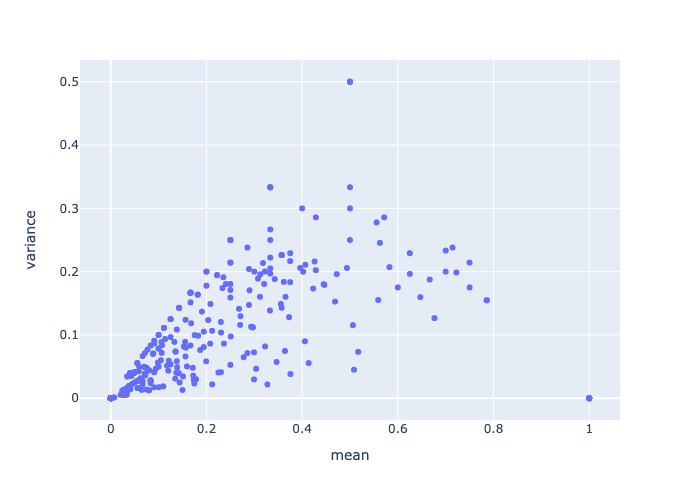
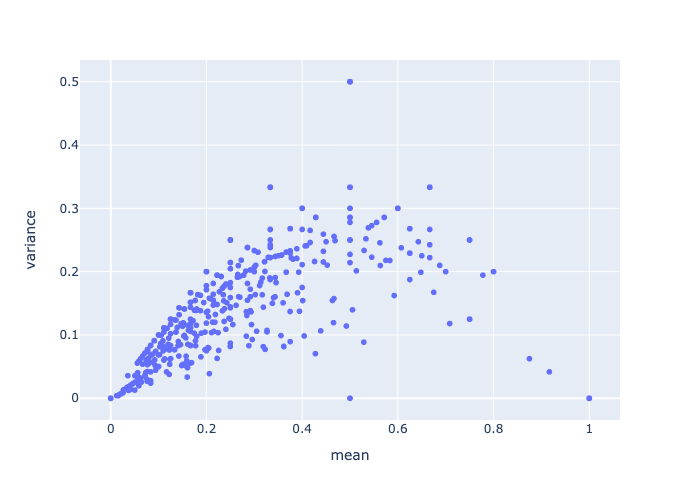
tried to do bootstrap, decided to do it in R instead, changed several plots

diff --git a/script.py b/script.py
@@ -1,0 +1,77 @@
+import pandas as pd
+import numpy as np
+import plotly.graph_objects as go
+import plotly.express as px
+import statsmodels.api as sm
+from scipy.stats import bootstrap
+
+ist_full_df = pd.read_csv("IST-data.CSV")
+
+ist_df = ist_full_df[["SEX", "AGE", "RCONSC", "RSBP", "FDEAD", "RXASP", "RDATE", "COUNTRY"]]
+ist_df = ist_df.rename(columns={
+    "RSBP": "Systolic BP",
+    "RCONSC": "Conscious Level",
+    "RXASP": "Aspirin Allocated",
+    "FDEAD": "Dead",
+    "RDATE": "Randomisation month"
+}).dropna()
+
+sex_counts = ist_df[["SEX", "Aspirin Allocated"]].value_counts().reset_index()
+
+fig_sex = px.bar(
+    sex_counts,
+    x="SEX",
+    y="count",
+    color="Aspirin Allocated",
+    text="count",
+    barmode='group',  # This puts bars side-by-side
+    title="Number of men and women by aspirin allocation in IST dataset",
+    color_discrete_map={
+        'No Aspirin': 'red',
+        'Aspirin': 'green'
+    }
+)
+sex_data = ist_df["SEX"].value_counts().reset_index()
+
+ist_df["SEX"] = ist_df["SEX"].map({"M": 0, "F": 1})
+ist_df["Conscious Level"] = ist_df["Conscious Level"].map({"D": 0.5, "F": 1, "U": 0})
+ist_df = ist_df[ist_df["Dead"].isin(["Y", "N"])]
+ist_df["Dead"] = ist_df["Dead"].map({"N": 0, "Y": 1}).astype(int)
+ist_df["Aspirin Allocated"] = ist_df["Aspirin Allocated"].map({"N": 0, "Y": 1})
+
+triples_df = ist_df[["COUNTRY", "AGE", "Randomisation month", "Dead"]]
+death_proportions = ist_df[[
+    "COUNTRY",
+    "AGE",
+    "Randomisation month",
+    "Dead"]
+    ].groupby([
+        'COUNTRY',
+        'AGE',
+        'Randomisation month'
+        ]).agg(
+    total_count=('Dead', 'count'),
+    death_count=('Dead', 'sum'),
+    death_proportion=('Dead', 'mean')
+).reset_index()
+death_proportions.sort_values("death_proportion", ascending=False).head()
+
+mean_var = death_proportions.groupby(["COUNTRY", "AGE",]).agg(
+    mean=("death_proportion", "mean"),
+    variance=("death_proportion", "var")
+).fillna(0).sort_values("mean", ascending=False)
+
+# Fitting GLM
+
+y = ist_df["Dead"]
+covariates = ["AGE", "SEX", "Systolic BP", "Conscious Level", "Aspirin Allocated"]
+X = ist_df[covariates]
+X_const = sm.add_constant(X)
+binomial_model = sm.GLM(y, X_const, family=sm.families.Binomial())
+
+results = binomial_model.fit()
+
+coef_table = results.params.to_frame(name="coef")
+coef_table.index.name = "Variable"
+
+latex_table = coef_table.to_latex(float_format="%.4f")
